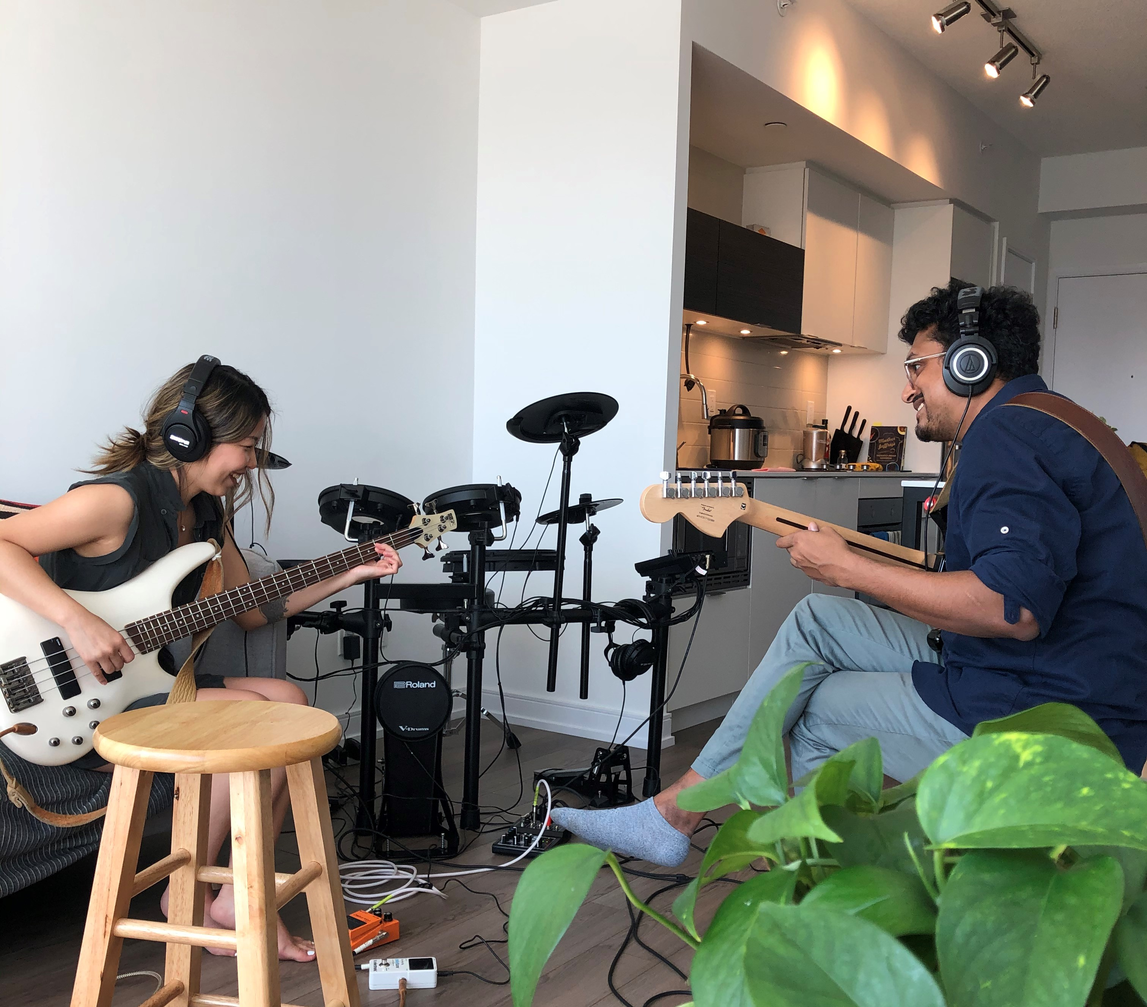
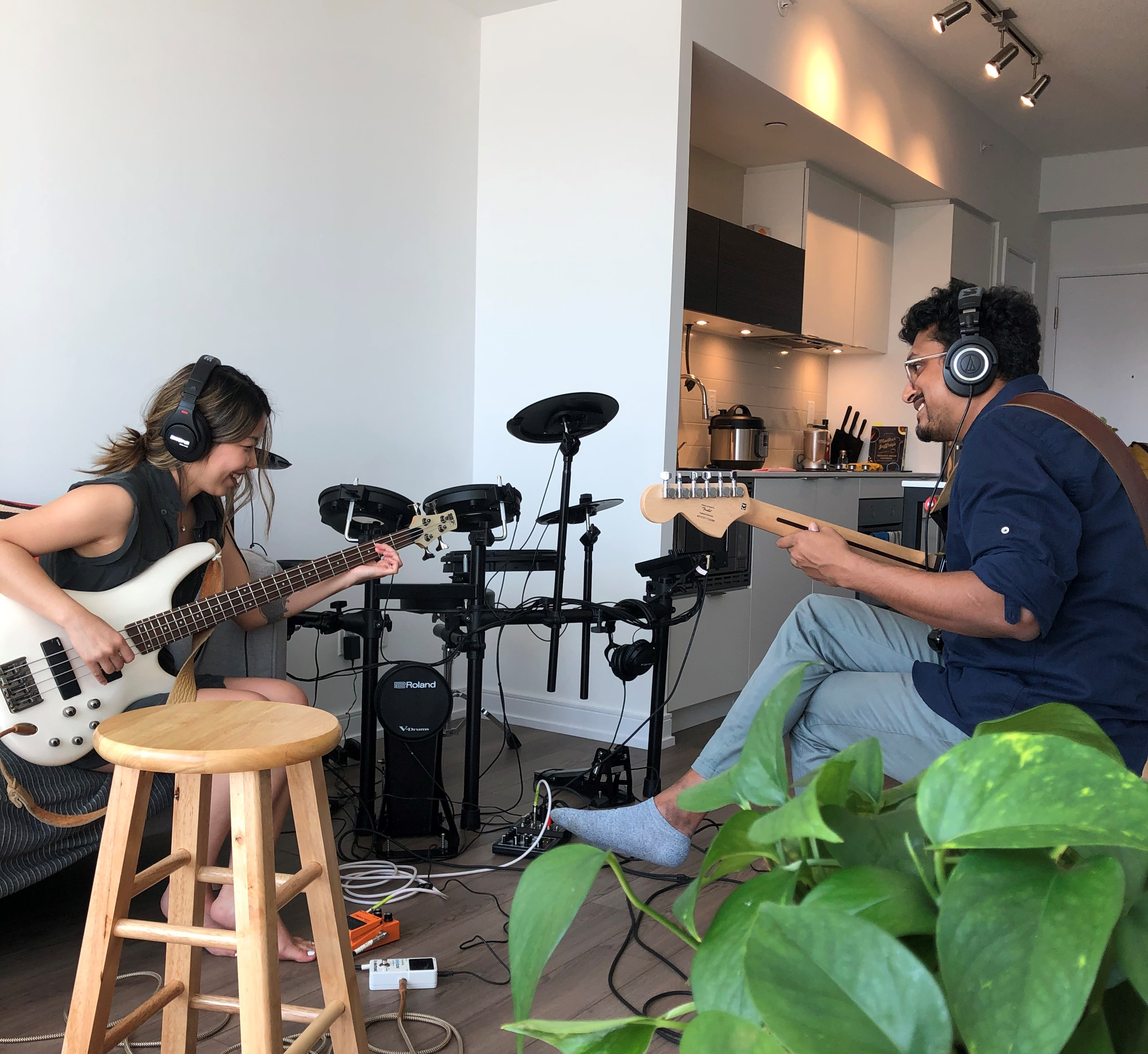
Update Pages “home”

diff --git a/site/content/_index.md b/site/content/_index.md
@@ -1,7 +1,7 @@
 ---
 title: ""
 subtitle: ""
-image: img/img-3572-skoa-website-bw.jpg
+image: img/img-3572-skoa-website.jpg
 blurb:
   heading: Who Are We?
   text: "Some Kind of Artist is a sound production studio based in Toronto. "
